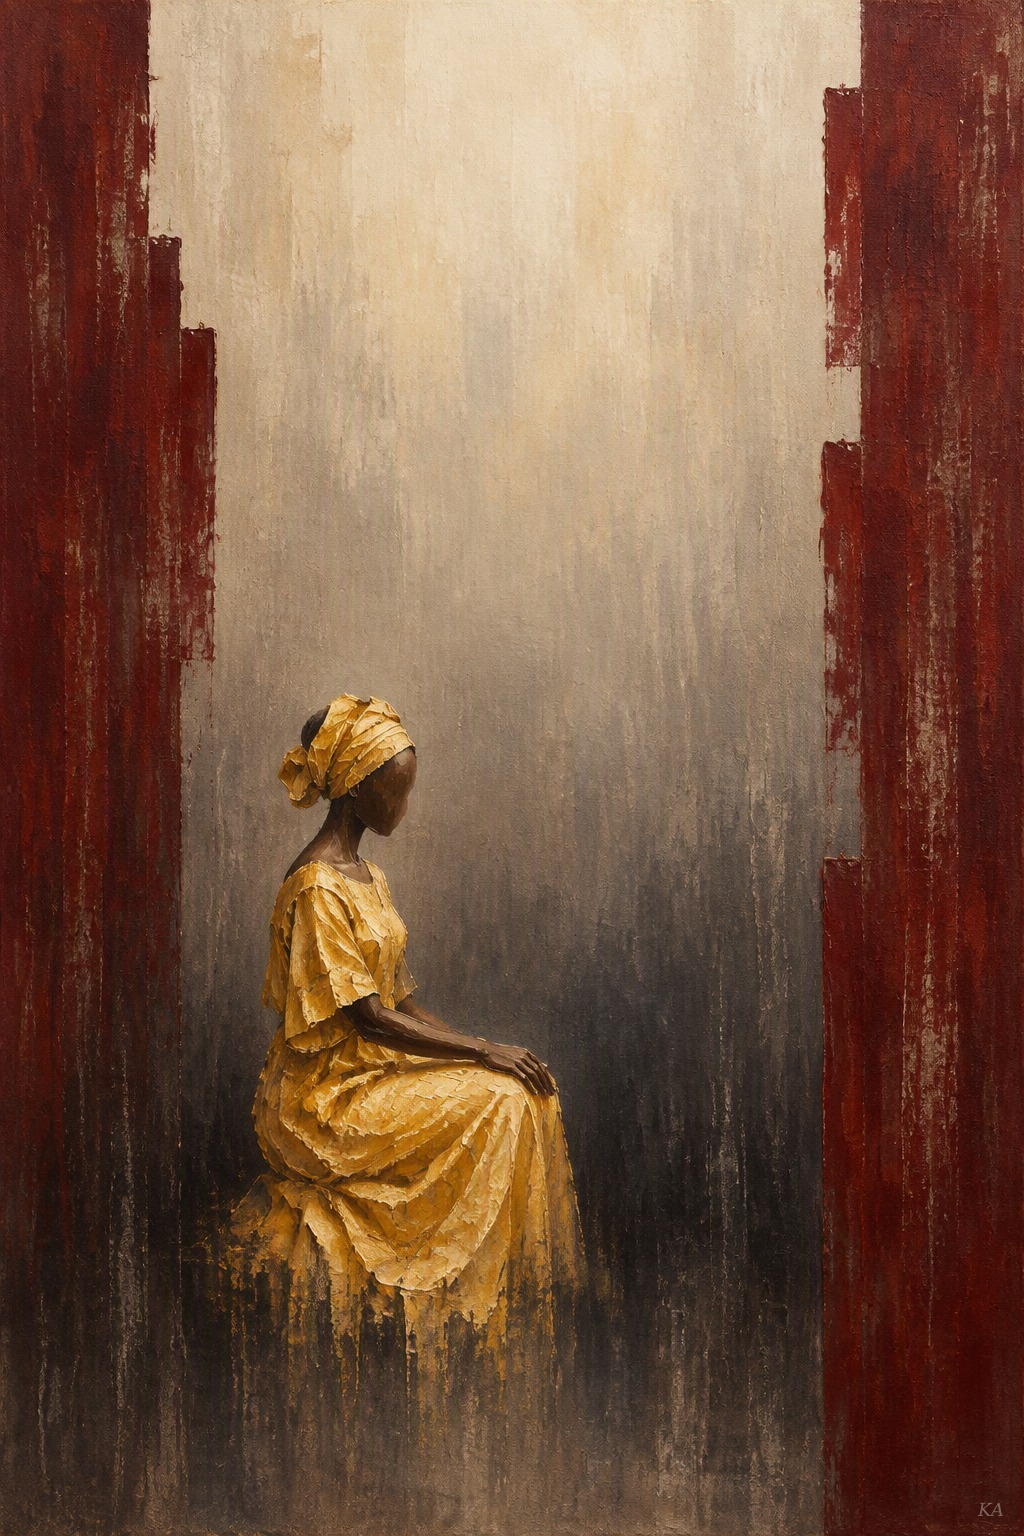
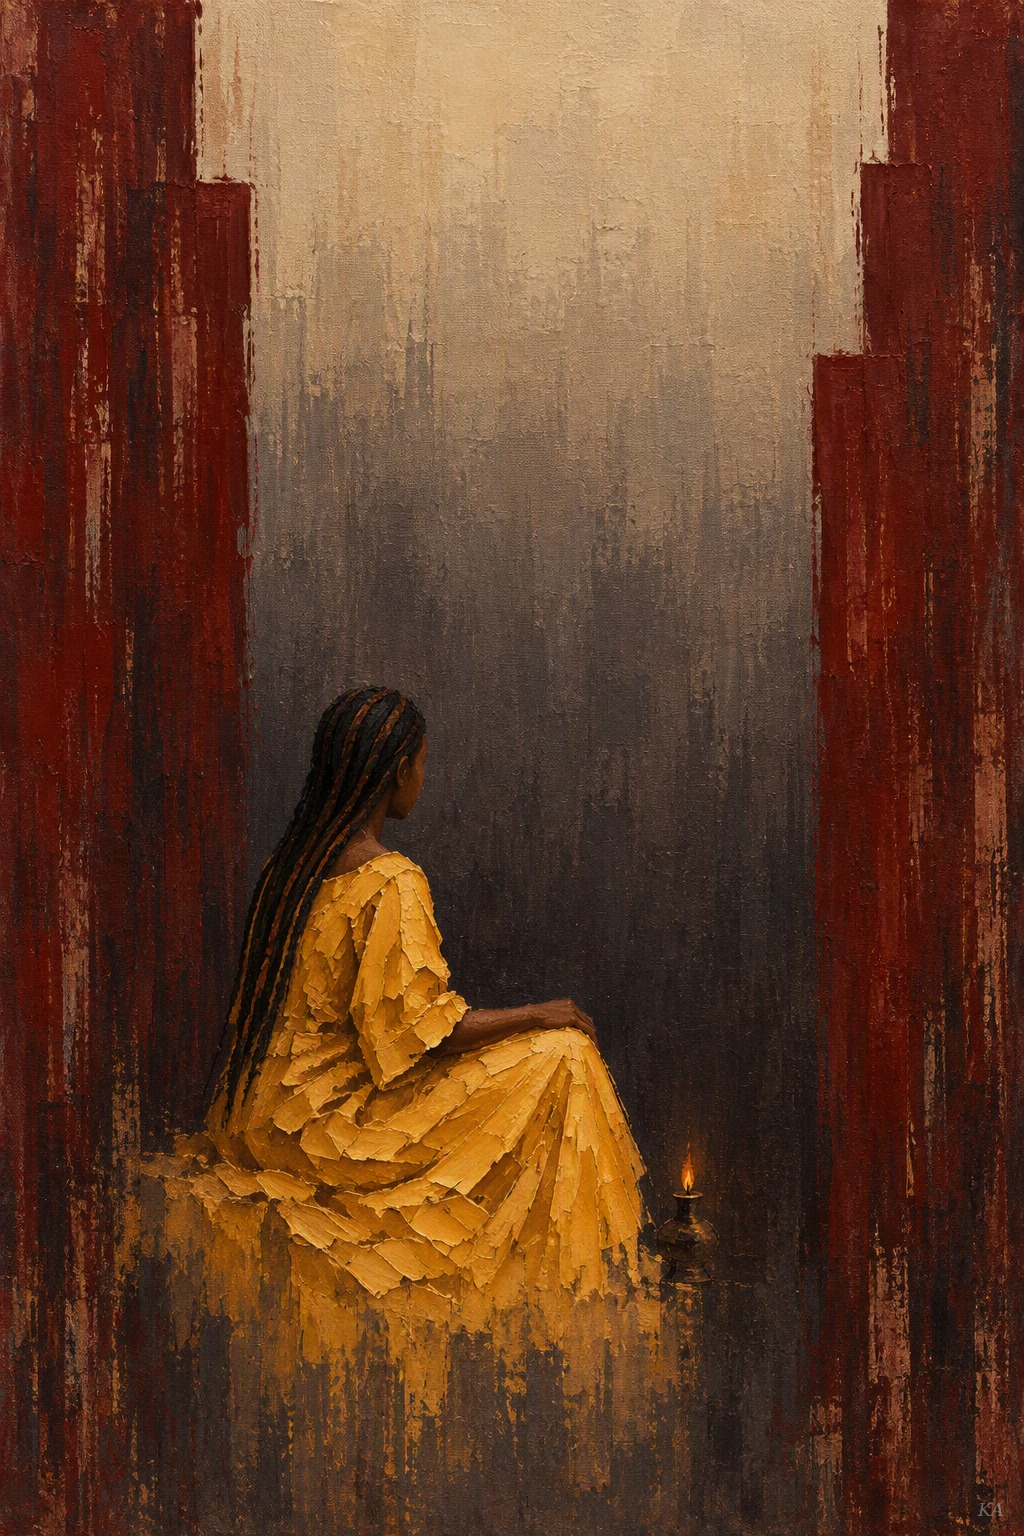
The Shine Holds: new image with the lamp the story opens with
New image (a small oil lamp on the ground lights the marigold bazin; long
braids, no headwrap, no stool) so the picture matches "The lamp finds the
dress first". Matching alt text. Caption, story, title and meta
description are unchanged.

diff --git a/art/the-shine-holds/index.html b/art/the-shine-holds/index.html
@@ -620,7 +620,7 @@ function markLoaded(e) {
     <h2 class="story-title">The Shine Holds</h2>
     <div class="story-layout">
     <div class="story-visual">
-    <div class="story-frame marked"><img class="piece-img" data-full="/assets/art/the-shine-holds.jpg" src="/assets/art/the-shine-holds.jpg" srcset="/assets/art/the-shine-holds.webp 667w, /assets/art/the-shine-holds.jpg 1024w" sizes="(max-width: 900px) 92vw, 860px" alt="A young Guinean woman in a shining marigold-gold bazin dress and headwrap sits side-on, her hand resting on the cloth over her knee, in a field fading from deep charcoal to pale warm cream between deep oxblood panels." width="1024" height="1536" loading="eager"></div>
+    <div class="story-frame marked"><img class="piece-img" data-full="/assets/art/the-shine-holds.jpg" src="/assets/art/the-shine-holds.jpg" srcset="/assets/art/the-shine-holds.webp 667w, /assets/art/the-shine-holds.jpg 1024w" sizes="(max-width: 900px) 92vw, 860px" alt="A young Guinean woman with long braids, in a marigold bazin dress that catches the light of a small oil lamp on the ground beside her, sits low with one hand on the cloth over her knee, in a field fading from deep charcoal to pale warm cream between deep oxblood panels." width="1024" height="1536" loading="eager"></div>
     <p class="story-cap">Someone beat this cloth with wooden mallets until it shone. Tonight I just sit in it.</p>
     </div>
     <div class="story-body">

diff --git a/index.html b/index.html
@@ -1066,7 +1066,7 @@ function markLoaded(e) {
       gridImage: "/assets/art/the-shine-holds.webp",
       title: "The Shine Holds",
       caption: "Someone beat this cloth with wooden mallets until it shone. Tonight I just sit in it.",
-      alt: "A young Guinean woman in a shining marigold-gold bazin dress and headwrap sits side-on, her hand resting on the cloth over her knee, in a field fading from deep charcoal to pale warm cream between deep oxblood panels.",
+      alt: "A young Guinean woman with long braids, in a marigold bazin dress that catches the light of a small oil lamp on the ground beside her, sits low with one hand on the cloth over her knee, in a field fading from deep charcoal to pale warm cream between deep oxblood panels.",
       glyph: "GLY-019-the-shine-holds",
       width: 1024,
       height: 1536,
